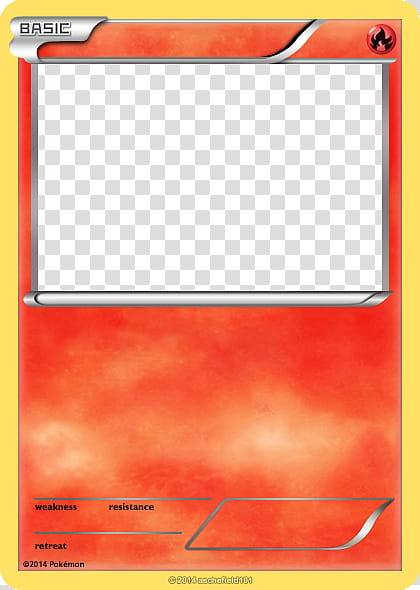
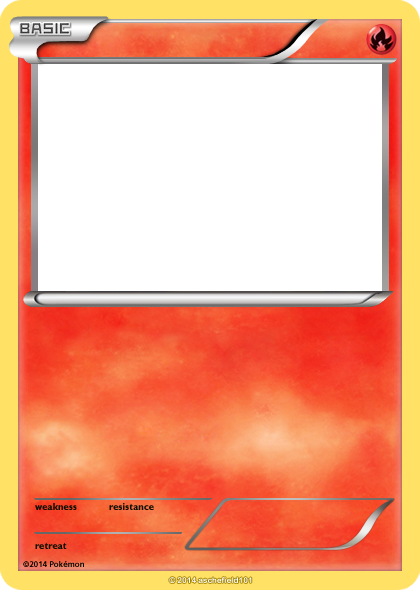
add styling

diff --git a/src/index.css b/src/index.css
@@ -1,3 +1,12 @@
+html, body {
+    margin-top:0px;
+    padding-top:0px;
+}
+
+body {
+    background-image: url("./assets/background.png");
+}
+
 .grid {
     display:flex;
     justify-content: space-between;
@@ -7,10 +16,11 @@
 .card {
     background-image: url('./assets/card.png');
     background-size: cover;
+    background-color: white;
     height:421px;
     width:300px;
     border:2px solid white;
-    margin-bottom: 5%;
+    
 }
 
 .card:hover {
@@ -30,4 +40,17 @@ img {
 h3 {
     position: relative;
     left:25%;
+}
+
+ul {
+    display:flex;
+    list-style-type: none;
+    justify-content:space-evenly;
+    align-items: center;
+    background-color: #3d7dca;
+    border:2px solid white;
+    padding:0px;
+    font-family:'Gill Sans', 'Gill Sans MT', Calibri, 'Trebuchet MS', sans-serif;
+    color:white;
+    margin-top:0px;
 }

diff --git a/src/components/Scoreboard.jsx b/src/components/Scoreboard.jsx
@@ -1,9 +1,11 @@
 function Scoreboard({ score, highScore }) {
   return (
     <div className="scoreboard">
-      <h1>Pokemon Memory Card</h1>
-      <h3>Score: {score}</h3>
-      <h3>High Score: {highScore}</h3>
+      <ul>
+        <li><h1>Pokémon Memory Card</h1></li>
+        <li><h3>Score: {score}</h3></li>
+        <li><h3>High Score: {highScore}</h3></li>
+      </ul>
     </div>
   );
 }
